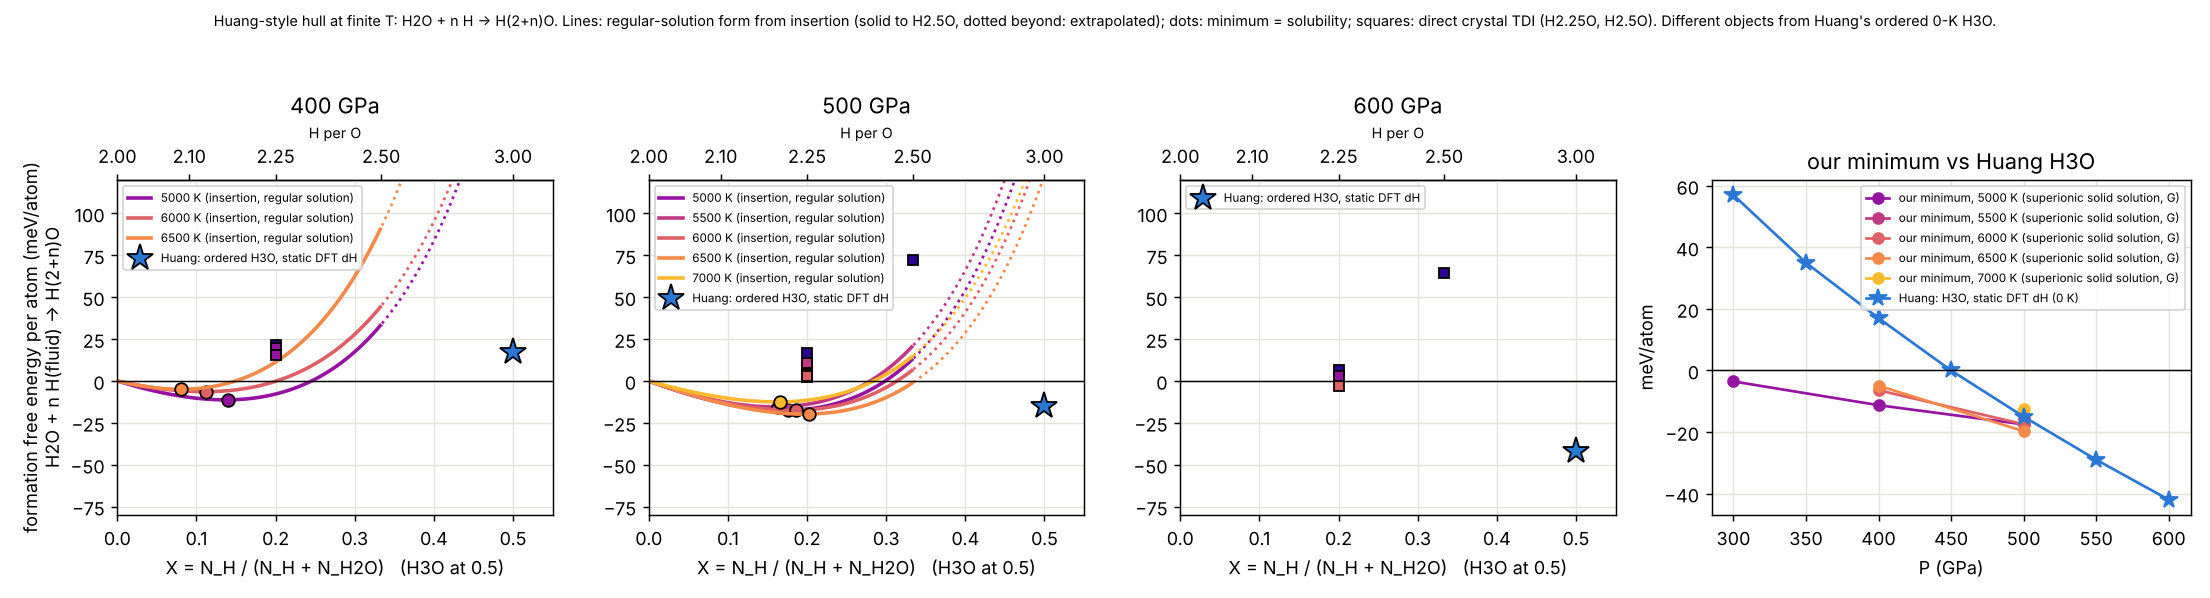
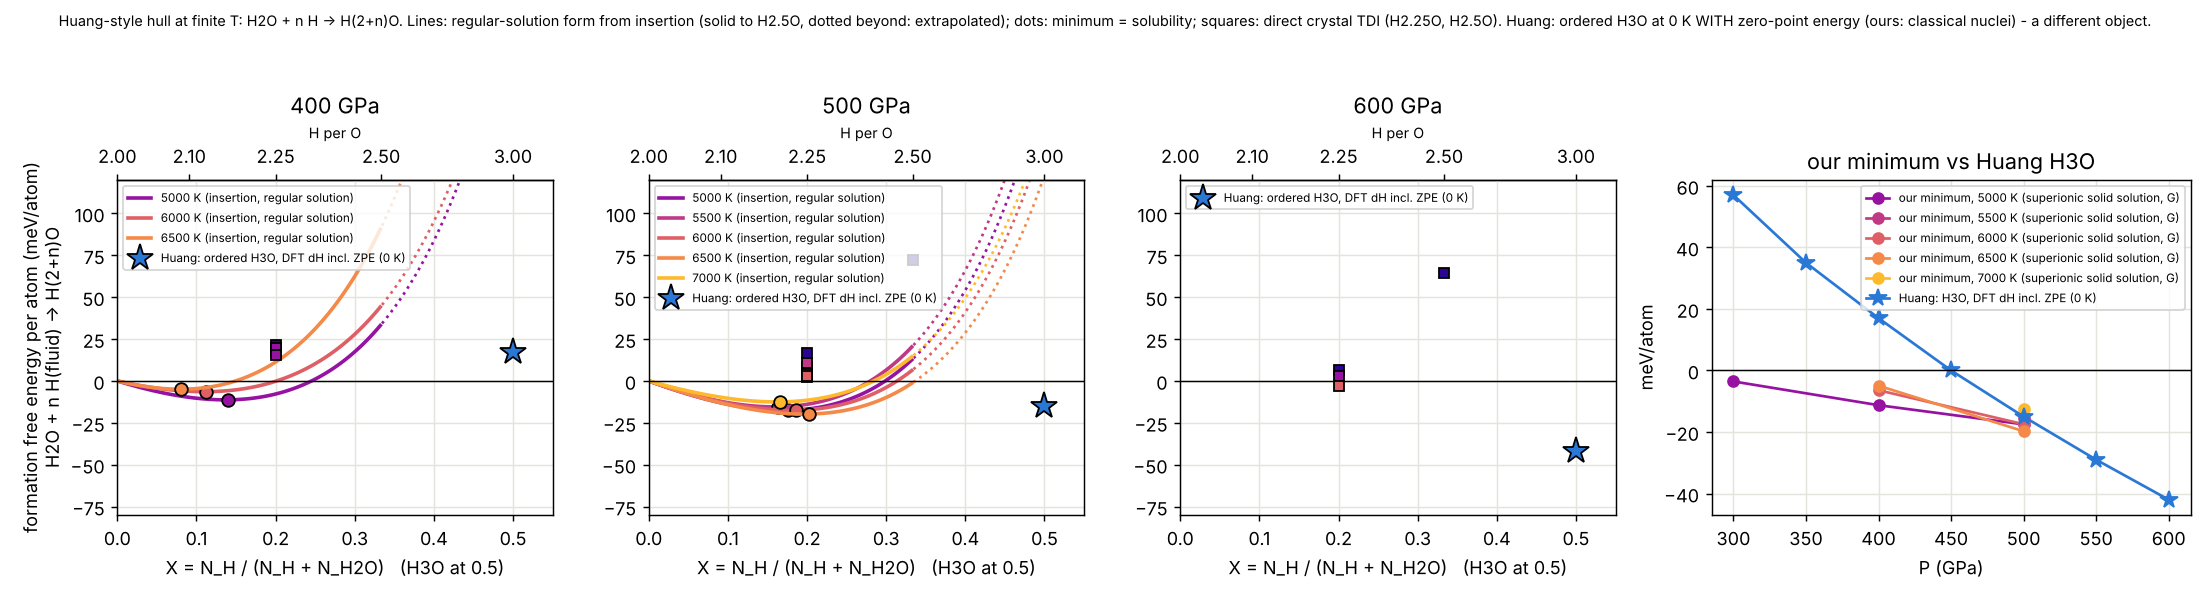
Huang H3O curve relabelled: their dH includes zero-point energy (our numbers are classical / static, no ZPE)
Claude-Session: https://claude.ai/code/session_01RSfmJNpmRzcKj5F71AN4DM

diff --git a/mlp_pipeline/tdi/huang_hull.py b/mlp_pipeline/tdi/huang_hull.py
@@ -2,7 +2,7 @@
 for the superionic fcc solid solution at finite T from our GRACE TDI: regular-solution form from insertion (mu_H - G_H = mu0 + s n, n = added H per O):
    dG(n) per formula unit = mu0 n + s n^2 / 2,  per atom / (3 + n);  minimum at n* = -mu0 / s (the solubility), dG(n*) = -mu0^2 / (2 s).
 Direct crystal TDI points (H2.25O, H2.5O; summarize mixing rows, melted / mismatched ones left out) per atom = n * (average per added H) / (3 + n).
-Compared with Huang's static (0 K) DFT enthalpy of the ordered H3O phase (their figure, read off). Different objects: theirs is an ordered crystal at 0 K, ours a
+Compared with Huang's DFT enthalpy of the ordered H3O phase INCLUDING zero-point energy (their figure, read off; our numbers are classical, no ZPE). Different objects: theirs is an ordered crystal at 0 K, ours a
 disordered superionic solution at 4000-7000 K (G, including entropy); an ordered H3O phase below our curve would be the stable one.
 usage: python3 mlp_pipeline/tdi/huang_hull.py [-o docs/figures/huang_style_hull.png]
 """
@@ -40,7 +40,7 @@ def main():
             if p == P:
                 axi.errorbar(nn / (nn + 1), nn * d / (3 + nn), nn * e / (3 + nn), fmt="s", color=col(T), mec="k", ms=6, capsize=2)
         h = [x for x in hu if x["P_GPa"] == P]
-        if h: axi.plot(0.5, h[0]["dH_meV_atom"], "*", color="#2a78d6", ms=15, mec="k", label="Huang: ordered H3O, static DFT dH")
+        if h: axi.plot(0.5, h[0]["dH_meV_atom"], "*", color="#2a78d6", ms=15, mec="k", label="Huang: ordered H3O, DFT dH incl. ZPE (0 K)")
         axi.axhline(0, color="k", lw=0.8); axi.set(xlim=(0, 0.55), ylim=(-80, 120), xlabel="X = N_H / (N_H + N_H2O)   (H3O at 0.5)", title=f"{P} GPa")
         axi.grid(color=GRID); axi.legend(fontsize=6.5, loc="upper left")
         sec = axi.secondary_xaxis("top", functions=(lambda x: 2 + x / np.maximum(1 - x, 1e-9), lambda h: (h - 2) / (h - 1)))
@@ -50,10 +50,10 @@ def main():
     for T in sorted({r["T_K"] for r in fit}):
         s = sorted((r["P_GPa"], -r["mu0"] ** 2 / (2 * r["s"]) / (3 - r["mu0"] / r["s"])) for r in fit if r["T_K"] == T)
         b.plot(*zip(*s), "o-", color=col(T), label=f"our minimum, {T:.0f} K (superionic solid solution, G)")
-    b.plot([x["P_GPa"] for x in hu], [x["dH_meV_atom"] for x in hu], "*-", color="#2a78d6", ms=10, label="Huang: H3O, static DFT dH (0 K)")
+    b.plot([x["P_GPa"] for x in hu], [x["dH_meV_atom"] for x in hu], "*-", color="#2a78d6", ms=10, label="Huang: H3O, DFT dH incl. ZPE (0 K)")
     b.axhline(0, color="k", lw=0.8); b.set(xlabel="P (GPa)", ylabel="meV/atom", title="our minimum vs Huang H3O"); b.grid(color=GRID); b.legend(fontsize=6.5)
     fig.suptitle("Huang-style hull at finite T: H2O + n H -> H(2+n)O. Lines: regular-solution form from insertion (solid to H2.5O, dotted beyond: extrapolated); dots: minimum = solubility; "
-                 "squares: direct crystal TDI (H2.25O, H2.5O). Different objects from Huang's ordered 0-K H3O.", fontsize=8)
+                 "squares: direct crystal TDI (H2.25O, H2.5O). Huang: ordered H3O at 0 K WITH zero-point energy (ours: classical nuclei) - a different object.", fontsize=8)
     fig.tight_layout(rect=(0, 0, 1, 0.94)); fig.savefig(a.o, dpi=130); print("wrote", a.o)
     for r in fit:
         ns = -r["mu0"] / r["s"]; print(f"{r['P_GPa']:.0f} GPa {r['T_K']:.0f} K: solubility n* = {ns:.3f} H per O (H{2 + ns:.2f}O, X = {ns / (1 + ns):.3f}), minimum {-r['mu0'] ** 2 / (2 * r['s']) / (3 + ns):6.1f} meV/atom")

diff --git a/mlp_pipeline/h3o_static.py b/mlp_pipeline/h3o_static.py
@@ -8,6 +8,7 @@ Output: H per atom of everything; dH_f(x) = [H(H(2+n)O) - nO h(H2O) - n_extra h(
 difference H(P) - H(450 GPa) per cell next to the user's CASTEP values (docs/data/h3o_castep_enthalpy.csv): equal differences = the MLP reproduces
 the DFT equation of state of H3O (dH/dP = V), whatever the absolute energy reference.
 Caveat: the MLP was trained on hot superionic / fluid configurations, not on cold molecular or atomic H solids: the H reference is the weak link.
+These are STATIC enthalpies (no zero-point energy); Huang's published dH(P) curve includes ZPE, so compare with a static DFT calculation of the same references.
 usage (repo root, GPU node):  ~/grace-venv/bin/python mlp_pipeline/h3o_static.py [--model grace-ft:runs/grace/ft_m2] [--P 300 400 450 500 600 700 800] [--parallel 7] [-o runs/h3o_static]
 """
 import argparse, csv, os, sys, warnings
